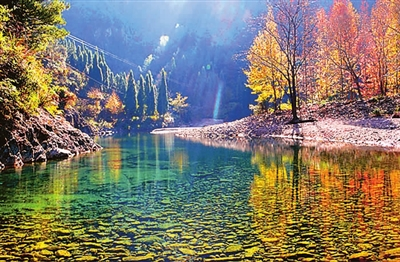
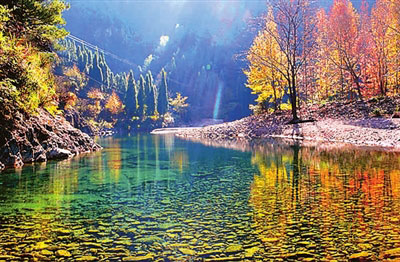
optimize the method of circle symmetrical arrangement
1 optimize the method of circle symmetrical arrangement;
2 fix the bug “unexpected error” case by src of omg;
3 replace some pic by small-size.

diff --git a/js/mainCircle.js b/js/mainCircle.js
@@ -26,6 +26,7 @@ function addPhotos(){
 	for (var i = 0; i < data.length; ++i) {
 		var _html = template
 						.replace('{{index}}',i)
+						.replace('_src','src')    //修复src路径解析报错的问题
 						.replace('{{img}}',data[i].img)
 						.replace('{{caption}}',data[i].caption)
 						.replace('{{desc}}',data[i].desc);
@@ -102,21 +103,23 @@ function rsort(n){
 	var _range = range();
 	for ( s in photos_left ) {
 		var photoOfLeft = photos_left[s];
-		var leftY = randomPhoto( _range.left.y );
-		var leftX = _wrapModel.w/2 - Math.sqrt(160000-(Math.pow(leftY-_wrapModel.h/2,2) ) );
-		photoOfLeft.style.left = leftX + 'px';
-		photoOfLeft.style.top  = leftY + 'px';
-		photoOfLeft.style['transform']         = 'rotate(' + randomPhoto([-45,45]) + 'deg) scale(.6)';
-		photoOfLeft.style['-webkit-transform'] = 'rotate(' + randomPhoto([-45,45]) + 'deg) scale(.6)';
+		// var leftY = randomPhoto( _range.left.y );
+		// var leftX = _wrapModel.w/2 - Math.sqrt(160000-(Math.pow(leftY-_wrapModel.h/2,2) ) );
+		// var angleLeft = Math.atan(leftY-);
+
+		// photoOfLeft.style.left = leftX + 'px';
+		// photoOfLeft.style.top  = leftY + 'px';
+		photoOfLeft.style['transform']         = 'rotate(' + randomPhoto([-30,30]) + 'deg) scale(.6) translate(800px)';
+		photoOfLeft.style['-webkit-transform'] = 'rotate(' + randomPhoto([-30,30]) + 'deg) scale(.6) translate(800px)';
 	}
 	for ( s in photos_right ) {
 		var photoOfRight = photos_right[s];
-		var rightY = randomPhoto( _range.right.y );
-		var rightX = _wrapModel.w/2 + Math.sqrt(160000-(Math.pow(rightY-_wrapModel.h/2,2) ) );
-		photoOfRight.style.left = rightX + 'px';
-		photoOfRight.style.top  = rightY + 'px';
-		photoOfRight.style['transform']         = 'rotate(' + randomPhoto([-45,45]) + 'deg) scale(.6)';
-		photoOfRight.style['-webkit-transform'] = 'rotate(' + randomPhoto([-45,45]) + 'deg) scale(.6)';
+		// var rightY = randomPhoto( _range.right.y );
+		// var rightX = _wrapModel.w/2 + Math.sqrt(160000-(Math.pow(rightY-_wrapModel.h/2,2) ) );
+		// photoOfRight.style.left = rightX + 'px';
+		// photoOfRight.style.top  = rightY + 'px';
+		photoOfRight.style['transform']         = 'rotate(' + randomPhoto([-30,30]) + 'deg) scale(.6) translate(-800px)';
+		photoOfRight.style['-webkit-transform'] = 'rotate(' + randomPhoto([-30,30]) + 'deg) scale(.6) translate(-800px)';
 	}
 }
 

diff --git a/data/data.js b/data/data.js
@@ -9,7 +9,7 @@ var dataStr = "1、八大关<br>\
 特点：“红瓦绿树，碧海蓝天”<br>\
 位置：青岛市武胜关支路10号<br>\
 主要景点:花石楼 第二海水浴场 公主楼 山海关路<br>\
-简介：“八大关”的特点，是把公园与庭院融合在一起，到处是郁郁葱葱的树木，四季盛开的鲜花，十条马路的行道树品种各异。如韶关路全植碧桃，春季开花，粉红如带；正阳关路遍种紫薇，夏天盛开；居庸关路是五角枫。秋季霜染枫红，平添美色；紫荆关路两侧是成排的雪松，四季常青；宁武关路则是海棠……从春初到秋末花开不断，被誉为“花街”。在八大关东北角又新植了一片桃林，成为春季人们踏青的又一好去处。西南角则绿柏夹道，成双的绿柏隔成了一个个“包厢”，为许多情侣们所钟爱，因此这里又被称为“爱情角”。<br>\
+简介：“八大关”的特点，是把公园与庭院融合在一起，到处是郁郁葱葱的树木，四季盛开的鲜花，十条马路的行道树品种各异。如韶关路全植碧桃，春季开花，粉红如带；正阳关路遍种紫薇；居庸关路是五角枫，秋季霜染枫红；紫荆关路两侧是成排的雪松；宁武关路则是海棠……从春初到秋末花开不断。<br>\
 <br>\
 <br>\
 2、九寨沟<br>\

diff --git a/index.html b/index.html
@@ -13,7 +13,7 @@
 		<!-- photo_wrap负责3D旋转 -->
 		<div class="photo_wrap">
 			<div class="side side_front">
-				<p class="image"><img src="images/{{img}}"></p>
+				<p class="image"><img _src="images/{{img}}"/></p>
 				<p class="caption">{{caption}}</p>
 			</div>
 			<div class="side side_back">
